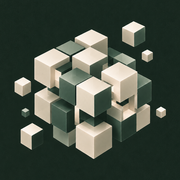
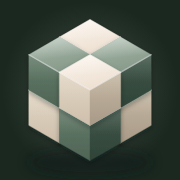
Brand mark: 2x2x2 cube that assembles on hover, with gloss and shadows
The mark is now a cream and sage 2x2x2 cube drawn from geometry. At rest
its blocks sit slightly apart; hovering the mark or its link brings them
together into one neat cube. Faces carry gloss, a light rim, soft block
shadows, a ground shadow and, on dark backgrounds, a faint glow.

The favicon is the assembled cube as an SVG (with a PNG fallback); the
Apple icon puts it on the original artwork's forest green.

diff --git a/frontend/public/home.html b/frontend/public/home.html
@@ -697,6 +697,42 @@ p{ margin:0; text-wrap:pretty; }
 .why-close{ margin-top:40px; font-weight:600; font-size:clamp(1.05rem, 1rem + 0.35vw, 1.25rem); color:var(--vv-ink); }
 
 
+/* ============================ BRAND MARK ============================ */
+/* Copy of the .vv-mark block in app/globals.css; markup is generated from
+   lib/brand-mark.ts. Keep the two in step. */
+.brand-mark{ display:inline-block; width:34px; height:34px; align-self:center; flex-shrink:0; }
+.vv-mark { display: block; width: 100%; height: 100%; overflow: visible; }
+/* Faces are stroked in their own paint only to close anti-aliasing seams. */
+.vv-mark polygon { stroke-width: 0.5px; stroke-linejoin: round; vector-effect: non-scaling-stroke; }
+.vv-mark .vv-gloss { stroke: none; }
+.vv-mark .vv-rim { fill: none; stroke: #fff; stroke-opacity: 0.55; stroke-width: 0.035; stroke-linejoin: round; stroke-linecap: round; }
+.vv-mark .vv-hit { fill: transparent; }
+.vv-mark .vv-ground { opacity: 0.22; }
+.vv-mark .vv-glow { opacity: 0; transition: opacity 0.5s ease; }
+[data-theme="dark"] .vv-mark .vv-ground { opacity: 0.5; }
+[data-theme="dark"] .vv-mark .vv-glow { opacity: 0.3; }
+[data-theme="dark"] .vv-mark:hover .vv-glow,
+[data-theme="dark"] .vv-mark-host:hover .vv-glow { opacity: 0.55; }
+.vv-block {
+  transform: translate(var(--dx), var(--dy));
+  transition: transform 0.5s cubic-bezier(0.5, 0, 0.75, 0);
+  transition-delay: calc((6 - var(--i)) * 25ms);
+}
+/* Coming together: front blocks settle last, with a small overshoot, like a click. */
+.vv-mark:hover .vv-block,
+.vv-mark-host:hover .vv-block,
+.vv-mark-host:focus-visible .vv-block {
+  transform: translate(0, 0);
+  transition: transform 0.55s cubic-bezier(0.34, 1.4, 0.64, 1);
+  transition-delay: calc(var(--i) * 35ms);
+}
+@media (prefers-reduced-motion: reduce) {
+  .vv-block, .vv-mark:hover .vv-block, .vv-mark-host:hover .vv-block { transition: none; }
+}
+/* The footer is dark in both themes. */
+.foot .vv-mark .vv-ground{ opacity:.5; }
+.foot .vv-mark .vv-glow{ opacity:.3; }
+
 /* ============================ ETYMOLOGY CARD ============================ */
 .brand-wrap{ position:relative; }
 .brand-latin{ border-bottom:1px dotted transparent; transition:border-color .25s; }
@@ -966,7 +1002,8 @@ body::after{
 <nav class="nav" id="nav">
   <div class="wrap nav-in">
     <div class="brand-wrap">
-      <a class="brand" href="#top" aria-describedby="etym-card">
+      <a class="brand vv-mark-host" href="#top" aria-describedby="etym-card">
+        <span class="brand-mark"><svg class="vv-mark" viewBox="-2.6 -2.6 5.2 5.2" aria-hidden="true" focusable="false"><defs><linearGradient id="vvm-cream-top" x1="0" y1="0" x2="0.35" y2="1"><stop offset="0" stop-color="#FBF4EC"/><stop offset="1" stop-color="#EEE1D3"/></linearGradient><linearGradient id="vvm-cream-left" x1="0" y1="0" x2="0" y2="1"><stop offset="0" stop-color="#E3D7C6"/><stop offset="1" stop-color="#CDBFAB"/></linearGradient><linearGradient id="vvm-cream-right" x1="0" y1="0" x2="0" y2="1"><stop offset="0" stop-color="#C4B7A3"/><stop offset="1" stop-color="#A89A86"/></linearGradient><linearGradient id="vvm-sage-top" x1="0" y1="0" x2="0.35" y2="1"><stop offset="0" stop-color="#A6B8A9"/><stop offset="1" stop-color="#899C8C"/></linearGradient><linearGradient id="vvm-sage-left" x1="0" y1="0" x2="0" y2="1"><stop offset="0" stop-color="#647B69"/><stop offset="1" stop-color="#4F6555"/></linearGradient><linearGradient id="vvm-sage-right" x1="0" y1="0" x2="0" y2="1"><stop offset="0" stop-color="#41574A"/><stop offset="1" stop-color="#2F4337"/></linearGradient><linearGradient id="vvm-shine" x1="0" y1="0" x2="0.2" y2="1"><stop offset="0" stop-color="#fff" stop-opacity="0.45"/><stop offset="0.65" stop-color="#fff" stop-opacity="0"/></linearGradient><linearGradient id="vvm-sheen" x1="0" y1="0" x2="0" y2="1"><stop offset="0" stop-color="#fff" stop-opacity="0.14"/><stop offset="0.5" stop-color="#fff" stop-opacity="0"/></linearGradient><radialGradient id="vvm-glow"><stop offset="0" stop-color="#F2E6DA" stop-opacity="0.55"/><stop offset="1" stop-color="#F2E6DA" stop-opacity="0"/></radialGradient><filter id="vvm-lift" x="-30%" y="-30%" width="160%" height="160%"><feDropShadow dx="0" dy="0.07" stdDeviation="0.07" flood-color="#0E1812" flood-opacity="0.35"/></filter><filter id="vvm-blur" x="-50%" y="-50%" width="200%" height="200%"><feGaussianBlur stdDeviation="0.16"/></filter></defs><rect class="vv-hit" x="-2.6" y="-2.6" width="5.2" height="5.2"/><circle class="vv-glow" cx="0" cy="0" r="2.5" fill="url(#vvm-glow)"/><ellipse class="vv-ground" cx="0" cy="2.05" rx="1.75" ry="0.38" fill="#0E1812" filter="url(#vvm-blur)"/><g class="vv-block" style="--i:0;--dx:0px;--dy:-0.25px"><g filter="url(#vvm-lift)"><polygon fill="url(#vvm-cream-top)" stroke="url(#vvm-cream-top)" points="0,-2 0.866,-1.5 0,-1 -0.866,-1.5"/><polygon fill="url(#vvm-cream-left)" stroke="url(#vvm-cream-left)" points="-0.866,-0.5 0,0 0,-1 -0.866,-1.5"/><polygon fill="url(#vvm-cream-right)" stroke="url(#vvm-cream-right)" points="0.866,-0.5 0,0 0,-1 0.866,-1.5"/><polygon class="vv-gloss" fill="url(#vvm-shine)" points="0,-2 0.866,-1.5 0,-1 -0.866,-1.5"/><polygon class="vv-gloss" fill="url(#vvm-sheen)" points="-0.866,-0.5 0,0 0,-1 -0.866,-1.5"/><polygon class="vv-gloss" fill="url(#vvm-sheen)" points="0.866,-0.5 0,0 0,-1 0.866,-1.5"/><polyline class="vv-rim" points="-0.866,-1.5 0,-1 0.866,-1.5"/></g></g><g class="vv-block" style="--i:1;--dx:0.13px;--dy:0.125px"><g filter="url(#vvm-lift)"><polygon fill="url(#vvm-cream-top)" stroke="url(#vvm-cream-top)" points="0.866,-0.5 1.732,0 0.866,0.5 0,0"/><polygon fill="url(#vvm-cream-left)" stroke="url(#vvm-cream-left)" points="0,1 0.866,1.5 0.866,0.5 0,0"/><polygon fill="url(#vvm-cream-right)" stroke="url(#vvm-cream-right)" points="1.732,1 0.866,1.5 0.866,0.5 1.732,0"/><polygon class="vv-gloss" fill="url(#vvm-shine)" points="0.866,-0.5 1.732,0 0.866,0.5 0,0"/><polygon class="vv-gloss" fill="url(#vvm-sheen)" points="0,1 0.866,1.5 0.866,0.5 0,0"/><polygon class="vv-gloss" fill="url(#vvm-sheen)" points="1.732,1 0.866,1.5 0.866,0.5 1.732,0"/><polyline class="vv-rim" points="0,0 0.866,0.5 1.732,0"/></g></g><g class="vv-block" style="--i:2;--dx:-0.52px;--dy:0.45px"><g filter="url(#vvm-lift)"><polygon fill="url(#vvm-cream-top)" stroke="url(#vvm-cream-top)" points="-0.866,-0.5 0,0 -0.866,0.5 -1.732,0"/><polygon fill="url(#vvm-cream-left)" stroke="url(#vvm-cream-left)" points="-1.732,1 -0.866,1.5 -0.866,0.5 -1.732,0"/><polygon fill="url(#vvm-cream-right)" stroke="url(#vvm-cream-right)" points="0,1 -0.866,1.5 -0.866,0.5 0,0"/><polygon class="vv-gloss" fill="url(#vvm-shine)" points="-0.866,-0.5 0,0 -0.866,0.5 -1.732,0"/><polygon class="vv-gloss" fill="url(#vvm-sheen)" points="-1.732,1 -0.866,1.5 -0.866,0.5 -1.732,0"/><polygon class="vv-gloss" fill="url(#vvm-sheen)" points="0,1 -0.866,1.5 -0.866,0.5 0,0"/><polyline class="vv-rim" points="-1.732,0 -0.866,0.5 0,0"/></g></g><g class="vv-block" style="--i:3;--dx:0.563px;--dy:-0.125px"><g filter="url(#vvm-lift)"><polygon fill="url(#vvm-sage-top)" stroke="url(#vvm-sage-top)" points="0.866,-1.5 1.732,-1 0.866,-0.5 0,-1"/><polygon fill="url(#vvm-sage-left)" stroke="url(#vvm-sage-left)" points="0,0 0.866,0.5 0.866,-0.5 0,-1"/><polygon fill="url(#vvm-sage-right)" stroke="url(#vvm-sage-right)" points="1.732,0 0.866,0.5 0.866,-0.5 1.732,-1"/><polygon class="vv-gloss" fill="url(#vvm-shine)" points="0.866,-1.5 1.732,-1 0.866,-0.5 0,-1"/><polygon class="vv-gloss" fill="url(#vvm-sheen)" points="0,0 0.866,0.5 0.866,-0.5 0,-1"/><polygon class="vv-gloss" fill="url(#vvm-sheen)" points="1.732,0 0.866,0.5 0.866,-0.5 1.732,-1"/><polyline class="vv-rim" points="0,-1 0.866,-0.5 1.732,-1"/></g></g><g class="vv-block" style="--i:4;--dx:-0.104px;--dy:0.01px"><g filter="url(#vvm-lift)"><polygon fill="url(#vvm-sage-top)" stroke="url(#vvm-sage-top)" points="-0.866,-1.5 0,-1 -0.866,-0.5 -1.732,-1"/><polygon fill="url(#vvm-sage-left)" stroke="url(#vvm-sage-left)" points="-1.732,0 -0.866,0.5 -0.866,-0.5 -1.732,-1"/><polygon fill="url(#vvm-sage-right)" stroke="url(#vvm-sage-right)" points="0,0 -0.866,0.5 -0.866,-0.5 0,-1"/><polygon class="vv-gloss" fill="url(#vvm-shine)" points="-0.866,-1.5 0,-1 -0.866,-0.5 -1.732,-1"/><polygon class="vv-gloss" fill="url(#vvm-sheen)" points="-1.732,0 -0.866,0.5 -0.866,-0.5 -1.732,-1"/><polygon class="vv-gloss" fill="url(#vvm-sheen)" points="0,0 -0.866,0.5 -0.866,-0.5 0,-1"/><polyline class="vv-rim" points="-1.732,-1 -0.866,-0.5 0,-1"/></g></g><g class="vv-block" style="--i:5;--dx:0px;--dy:0.2px"><g filter="url(#vvm-lift)"><polygon fill="url(#vvm-sage-top)" stroke="url(#vvm-sage-top)" points="0,0 0.866,0.5 0,1 -0.866,0.5"/><polygon fill="url(#vvm-sage-left)" stroke="url(#vvm-sage-left)" points="-0.866,1.5 0,2 0,1 -0.866,0.5"/><polygon fill="url(#vvm-sage-right)" stroke="url(#vvm-sage-right)" points="0.866,1.5 0,2 0,1 0.866,0.5"/><polygon class="vv-gloss" fill="url(#vvm-shine)" points="0,0 0.866,0.5 0,1 -0.866,0.5"/><polygon class="vv-gloss" fill="url(#vvm-sheen)" points="-0.866,1.5 0,2 0,1 -0.866,0.5"/><polygon class="vv-gloss" fill="url(#vvm-sheen)" points="0.866,1.5 0,2 0,1 0.866,0.5"/><polyline class="vv-rim" points="-0.866,0.5 0,1 0.866,0.5"/></g></g><g class="vv-block" style="--i:6;--dx:0px;--dy:-0.1px"><g filter="url(#vvm-lift)"><polygon fill="url(#vvm-cream-top)" stroke="url(#vvm-cream-top)" points="0,-1 0.866,-0.5 0,0 -0.866,-0.5"/><polygon fill="url(#vvm-cream-left)" stroke="url(#vvm-cream-left)" points="-0.866,0.5 0,1 0,0 -0.866,-0.5"/><polygon fill="url(#vvm-cream-right)" stroke="url(#vvm-cream-right)" points="0.866,0.5 0,1 0,0 0.866,-0.5"/><polygon class="vv-gloss" fill="url(#vvm-shine)" points="0,-1 0.866,-0.5 0,0 -0.866,-0.5"/><polygon class="vv-gloss" fill="url(#vvm-sheen)" points="-0.866,0.5 0,1 0,0 -0.866,-0.5"/><polygon class="vv-gloss" fill="url(#vvm-sheen)" points="0.866,0.5 0,1 0,0 0.866,-0.5"/><polyline class="vv-rim" points="-0.866,-0.5 0,0 0.866,-0.5"/></g></g></svg></span>
         <span class="brand-latin">Vivran</span>
       </a>
       <div class="etym" id="etym-card" role="tooltip">
@@ -1561,7 +1598,8 @@ body::after{
   <div class="wrap">
     <div class="foot-in">
       <div>
-        <a class="brand" href="#top">
+        <a class="brand vv-mark-host" href="#top">
+          <span class="brand-mark"><svg class="vv-mark" viewBox="-2.6 -2.6 5.2 5.2" aria-hidden="true" focusable="false"><defs><linearGradient id="vvm-cream-top" x1="0" y1="0" x2="0.35" y2="1"><stop offset="0" stop-color="#FBF4EC"/><stop offset="1" stop-color="#EEE1D3"/></linearGradient><linearGradient id="vvm-cream-left" x1="0" y1="0" x2="0" y2="1"><stop offset="0" stop-color="#E3D7C6"/><stop offset="1" stop-color="#CDBFAB"/></linearGradient><linearGradient id="vvm-cream-right" x1="0" y1="0" x2="0" y2="1"><stop offset="0" stop-color="#C4B7A3"/><stop offset="1" stop-color="#A89A86"/></linearGradient><linearGradient id="vvm-sage-top" x1="0" y1="0" x2="0.35" y2="1"><stop offset="0" stop-color="#A6B8A9"/><stop offset="1" stop-color="#899C8C"/></linearGradient><linearGradient id="vvm-sage-left" x1="0" y1="0" x2="0" y2="1"><stop offset="0" stop-color="#647B69"/><stop offset="1" stop-color="#4F6555"/></linearGradient><linearGradient id="vvm-sage-right" x1="0" y1="0" x2="0" y2="1"><stop offset="0" stop-color="#41574A"/><stop offset="1" stop-color="#2F4337"/></linearGradient><linearGradient id="vvm-shine" x1="0" y1="0" x2="0.2" y2="1"><stop offset="0" stop-color="#fff" stop-opacity="0.45"/><stop offset="0.65" stop-color="#fff" stop-opacity="0"/></linearGradient><linearGradient id="vvm-sheen" x1="0" y1="0" x2="0" y2="1"><stop offset="0" stop-color="#fff" stop-opacity="0.14"/><stop offset="0.5" stop-color="#fff" stop-opacity="0"/></linearGradient><radialGradient id="vvm-glow"><stop offset="0" stop-color="#F2E6DA" stop-opacity="0.55"/><stop offset="1" stop-color="#F2E6DA" stop-opacity="0"/></radialGradient><filter id="vvm-lift" x="-30%" y="-30%" width="160%" height="160%"><feDropShadow dx="0" dy="0.07" stdDeviation="0.07" flood-color="#0E1812" flood-opacity="0.35"/></filter><filter id="vvm-blur" x="-50%" y="-50%" width="200%" height="200%"><feGaussianBlur stdDeviation="0.16"/></filter></defs><rect class="vv-hit" x="-2.6" y="-2.6" width="5.2" height="5.2"/><circle class="vv-glow" cx="0" cy="0" r="2.5" fill="url(#vvm-glow)"/><ellipse class="vv-ground" cx="0" cy="2.05" rx="1.75" ry="0.38" fill="#0E1812" filter="url(#vvm-blur)"/><g class="vv-block" style="--i:0;--dx:0px;--dy:-0.25px"><g filter="url(#vvm-lift)"><polygon fill="url(#vvm-cream-top)" stroke="url(#vvm-cream-top)" points="0,-2 0.866,-1.5 0,-1 -0.866,-1.5"/><polygon fill="url(#vvm-cream-left)" stroke="url(#vvm-cream-left)" points="-0.866,-0.5 0,0 0,-1 -0.866,-1.5"/><polygon fill="url(#vvm-cream-right)" stroke="url(#vvm-cream-right)" points="0.866,-0.5 0,0 0,-1 0.866,-1.5"/><polygon class="vv-gloss" fill="url(#vvm-shine)" points="0,-2 0.866,-1.5 0,-1 -0.866,-1.5"/><polygon class="vv-gloss" fill="url(#vvm-sheen)" points="-0.866,-0.5 0,0 0,-1 -0.866,-1.5"/><polygon class="vv-gloss" fill="url(#vvm-sheen)" points="0.866,-0.5 0,0 0,-1 0.866,-1.5"/><polyline class="vv-rim" points="-0.866,-1.5 0,-1 0.866,-1.5"/></g></g><g class="vv-block" style="--i:1;--dx:0.13px;--dy:0.125px"><g filter="url(#vvm-lift)"><polygon fill="url(#vvm-cream-top)" stroke="url(#vvm-cream-top)" points="0.866,-0.5 1.732,0 0.866,0.5 0,0"/><polygon fill="url(#vvm-cream-left)" stroke="url(#vvm-cream-left)" points="0,1 0.866,1.5 0.866,0.5 0,0"/><polygon fill="url(#vvm-cream-right)" stroke="url(#vvm-cream-right)" points="1.732,1 0.866,1.5 0.866,0.5 1.732,0"/><polygon class="vv-gloss" fill="url(#vvm-shine)" points="0.866,-0.5 1.732,0 0.866,0.5 0,0"/><polygon class="vv-gloss" fill="url(#vvm-sheen)" points="0,1 0.866,1.5 0.866,0.5 0,0"/><polygon class="vv-gloss" fill="url(#vvm-sheen)" points="1.732,1 0.866,1.5 0.866,0.5 1.732,0"/><polyline class="vv-rim" points="0,0 0.866,0.5 1.732,0"/></g></g><g class="vv-block" style="--i:2;--dx:-0.52px;--dy:0.45px"><g filter="url(#vvm-lift)"><polygon fill="url(#vvm-cream-top)" stroke="url(#vvm-cream-top)" points="-0.866,-0.5 0,0 -0.866,0.5 -1.732,0"/><polygon fill="url(#vvm-cream-left)" stroke="url(#vvm-cream-left)" points="-1.732,1 -0.866,1.5 -0.866,0.5 -1.732,0"/><polygon fill="url(#vvm-cream-right)" stroke="url(#vvm-cream-right)" points="0,1 -0.866,1.5 -0.866,0.5 0,0"/><polygon class="vv-gloss" fill="url(#vvm-shine)" points="-0.866,-0.5 0,0 -0.866,0.5 -1.732,0"/><polygon class="vv-gloss" fill="url(#vvm-sheen)" points="-1.732,1 -0.866,1.5 -0.866,0.5 -1.732,0"/><polygon class="vv-gloss" fill="url(#vvm-sheen)" points="0,1 -0.866,1.5 -0.866,0.5 0,0"/><polyline class="vv-rim" points="-1.732,0 -0.866,0.5 0,0"/></g></g><g class="vv-block" style="--i:3;--dx:0.563px;--dy:-0.125px"><g filter="url(#vvm-lift)"><polygon fill="url(#vvm-sage-top)" stroke="url(#vvm-sage-top)" points="0.866,-1.5 1.732,-1 0.866,-0.5 0,-1"/><polygon fill="url(#vvm-sage-left)" stroke="url(#vvm-sage-left)" points="0,0 0.866,0.5 0.866,-0.5 0,-1"/><polygon fill="url(#vvm-sage-right)" stroke="url(#vvm-sage-right)" points="1.732,0 0.866,0.5 0.866,-0.5 1.732,-1"/><polygon class="vv-gloss" fill="url(#vvm-shine)" points="0.866,-1.5 1.732,-1 0.866,-0.5 0,-1"/><polygon class="vv-gloss" fill="url(#vvm-sheen)" points="0,0 0.866,0.5 0.866,-0.5 0,-1"/><polygon class="vv-gloss" fill="url(#vvm-sheen)" points="1.732,0 0.866,0.5 0.866,-0.5 1.732,-1"/><polyline class="vv-rim" points="0,-1 0.866,-0.5 1.732,-1"/></g></g><g class="vv-block" style="--i:4;--dx:-0.104px;--dy:0.01px"><g filter="url(#vvm-lift)"><polygon fill="url(#vvm-sage-top)" stroke="url(#vvm-sage-top)" points="-0.866,-1.5 0,-1 -0.866,-0.5 -1.732,-1"/><polygon fill="url(#vvm-sage-left)" stroke="url(#vvm-sage-left)" points="-1.732,0 -0.866,0.5 -0.866,-0.5 -1.732,-1"/><polygon fill="url(#vvm-sage-right)" stroke="url(#vvm-sage-right)" points="0,0 -0.866,0.5 -0.866,-0.5 0,-1"/><polygon class="vv-gloss" fill="url(#vvm-shine)" points="-0.866,-1.5 0,-1 -0.866,-0.5 -1.732,-1"/><polygon class="vv-gloss" fill="url(#vvm-sheen)" points="-1.732,0 -0.866,0.5 -0.866,-0.5 -1.732,-1"/><polygon class="vv-gloss" fill="url(#vvm-sheen)" points="0,0 -0.866,0.5 -0.866,-0.5 0,-1"/><polyline class="vv-rim" points="-1.732,-1 -0.866,-0.5 0,-1"/></g></g><g class="vv-block" style="--i:5;--dx:0px;--dy:0.2px"><g filter="url(#vvm-lift)"><polygon fill="url(#vvm-sage-top)" stroke="url(#vvm-sage-top)" points="0,0 0.866,0.5 0,1 -0.866,0.5"/><polygon fill="url(#vvm-sage-left)" stroke="url(#vvm-sage-left)" points="-0.866,1.5 0,2 0,1 -0.866,0.5"/><polygon fill="url(#vvm-sage-right)" stroke="url(#vvm-sage-right)" points="0.866,1.5 0,2 0,1 0.866,0.5"/><polygon class="vv-gloss" fill="url(#vvm-shine)" points="0,0 0.866,0.5 0,1 -0.866,0.5"/><polygon class="vv-gloss" fill="url(#vvm-sheen)" points="-0.866,1.5 0,2 0,1 -0.866,0.5"/><polygon class="vv-gloss" fill="url(#vvm-sheen)" points="0.866,1.5 0,2 0,1 0.866,0.5"/><polyline class="vv-rim" points="-0.866,0.5 0,1 0.866,0.5"/></g></g><g class="vv-block" style="--i:6;--dx:0px;--dy:-0.1px"><g filter="url(#vvm-lift)"><polygon fill="url(#vvm-cream-top)" stroke="url(#vvm-cream-top)" points="0,-1 0.866,-0.5 0,0 -0.866,-0.5"/><polygon fill="url(#vvm-cream-left)" stroke="url(#vvm-cream-left)" points="-0.866,0.5 0,1 0,0 -0.866,-0.5"/><polygon fill="url(#vvm-cream-right)" stroke="url(#vvm-cream-right)" points="0.866,0.5 0,1 0,0 0.866,-0.5"/><polygon class="vv-gloss" fill="url(#vvm-shine)" points="0,-1 0.866,-0.5 0,0 -0.866,-0.5"/><polygon class="vv-gloss" fill="url(#vvm-sheen)" points="-0.866,0.5 0,1 0,0 -0.866,-0.5"/><polygon class="vv-gloss" fill="url(#vvm-sheen)" points="0.866,0.5 0,1 0,0 0.866,-0.5"/><polyline class="vv-rim" points="-0.866,-0.5 0,0 0.866,-0.5"/></g></g></svg></span>
           <span class="brand-latin">Vivran</span>
         </a>
         <p class="foot-tag">From a teacher&rsquo;s own material to an education that understands itself.</p>

diff --git a/frontend/lib/brand-mark.ts b/frontend/lib/brand-mark.ts
@@ -1,115 +1,109 @@
 /**
- * The Vivran mark: a 3×3×3 stack of isometric blocks, some missing, with a
- * few loose ones drifting off it. It is built from geometry (not an image)
- * so every block is its own SVG group and can move on hover.
+ * The Vivran mark: a 2×2×2 cube of cream and sage blocks. At rest the blocks
+ * have drifted apart; on hover they slide back together into one neat cube.
+ * It is built from geometry (not an image) so every block can move on its own.
+ *
+ * Its look follows the original artwork: glossy, softly lit faces, a light
+ * catch along each block's top edges, a small shadow under each block, a soft
+ * shadow on the ground and a faint glow behind. This is artwork, so its
+ * colours live here rather than in the theme tokens.
  *
  * `brandMarkSvg()` returns plain markup so the same mark is used by the React
  * component (app/components/brand-mark.tsx) and pasted into the static landing
  * page (public/home.html). If you change the blocks here, regenerate that copy:
  *   npx tsc lib/brand-mark.ts --outDir /tmp/bm && node -e "console.log(require('/tmp/bm/brand-mark.js').brandMarkSvg())"
- * Styling and motion live in globals.css (and its copy in home.html) under `.vv-mark`.
+ * Motion lives in globals.css (and its copy in home.html) under `.vv-mark`.
+ * The favicon (app/icon.svg) is this cube assembled.
  */
 
 type Tone = "cream" | "sage";
-type Pt = [number, number];
-
-interface Block {
-  /** screen-space centre, in block units (cluster centre is 0,0) */
-  cx: number;
-  cy: number;
-  size: number;
-  tone: Tone;
-  loose: boolean;
-}
+type Face = "top" | "left" | "right";
 
 const COS30 = Math.sqrt(3) / 2;
-const project = (x: number, y: number, z: number): Pt => [(x - y) * COS30, (x + y) / 2 - z];
+const project = (x: number, y: number, z: number): [number, number] => [(x - y) * COS30, (x + y) / 2 - z];
 
-const c: Tone = "cream";
-const s: Tone = "sage";
-
-/** [x, y, z, tone] on the 3×3×3 grid; z is up, x runs to the lower right, y to the lower left. */
-const GRID: [number, number, number, Tone][] = [
-  // bottom layer
-  [1, 0, 0, s], [2, 0, 0, c], [0, 1, 0, c], [2, 1, 0, s],
-  [0, 2, 0, c], [1, 2, 0, s], [2, 2, 0, c],
-  // middle layer: the centre and one front block are missing, so you can see in
-  [0, 0, 1, c], [1, 0, 1, c], [2, 0, 1, s], [0, 1, 1, s],
-  [2, 1, 1, s], [0, 2, 1, c], [1, 2, 1, s],
-  // top layer: the right-hand corner is missing
-  [0, 0, 2, c], [1, 0, 2, s], [0, 1, 2, s], [1, 1, 2, c],
-  [2, 1, 2, c], [0, 2, 2, c], [1, 2, 2, s], [2, 2, 2, c],
+/**
+ * [x, y, z, tone, drift] — x runs to the lower right, y to the lower left, z up;
+ * ±1 picks the octant. `drift` is how far (in block units) the block has come
+ * loose at rest: most sit close, two have clearly come away, as in the
+ * original artwork. The back-bottom block is never seen.
+ */
+const BLOCKS: [number, number, number, Tone, [number, number, number]][] = [
+  [-1, -1, 1, "cream", [0, 0, 0.25]],
+  [1, -1, 1, "sage", [0.55, -0.1, 0.35]],
+  [-1, 1, 1, "sage", [0, 0.12, 0.05]],
+  [1, -1, -1, "cream", [0.15, 0, -0.05]],
+  [-1, 1, -1, "cream", [-0.1, 0.5, -0.25]],
+  [1, 1, 1, "cream", [0.2, 0.2, 0.3]],
+  [1, 1, -1, "sage", [0.1, 0.1, -0.1]],
 ];
 
-/** A few blocks sit slightly out of the stack, as in the artwork: "x,y,z" → offset in block units. */
-const NUDGE: Record<string, [number, number, number]> = {
-  "2,2,2": [0, 0, 0.14],
-  "2,0,0": [0.16, 0, 0],
-  "0,2,0": [0, 0.16, 0],
-  "1,0,2": [0, 0, 0.1],
-  "2,1,1": [0.12, 0, 0],
+/** Each face runs from a lit colour to a shaded one: [from, to]. */
+const PAINT: Record<Tone, Record<Face, [string, string]>> = {
+  cream: { top: ["#FBF4EC", "#EEE1D3"], left: ["#E3D7C6", "#CDBFAB"], right: ["#C4B7A3", "#A89A86"] },
+  sage: { top: ["#A6B8A9", "#899C8C"], left: ["#647B69", "#4F6555"], right: ["#41574A", "#2F4337"] },
 };
 
-/** Blocks that have come loose, placed by screen position like the artwork. */
-const LOOSE: [number, number, number, Tone][] = [
-  [1.95, -2.5, 0.55, c],
-  [2.55, -1.45, 0.3, c],
-  [-3.0, 0.05, 0.45, c],
-  [-2.9, 1.1, 0.22, s],
-  [-2.6, 2.05, 0.5, c],
-  [3.15, 1.1, 0.28, c],
-];
-
-const BLOCKS: Block[] = [
-  ...GRID
-    // Painter's order: blocks further from the viewer are drawn first.
-    .slice()
-    .sort((a, b) => a[0] + a[1] + a[2] - (b[0] + b[1] + b[2]))
-    .map(([x, y, z, tone]) => {
-      const [nx, ny, nz] = NUDGE[`${x},${y},${z}`] ?? [0, 0, 0];
-      const [cx, cy] = project(x - 1 + nx, y - 1 + ny, z - 1 + nz);
-      return { cx, cy, size: 0.92, tone, loose: false };
-    }),
-  ...LOOSE.map(([cx, cy, size, tone]) => ({ cx, cy, size, tone, loose: true })),
-];
-
 const r = (n: number) => Math.round(n * 1000) / 1000;
-const pts = (corners: [number, number, number][], b: Block) =>
-  corners
-    .map(([x, y, z]) => {
-      const [px, py] = project(x * b.size, y * b.size, z * b.size);
-      return `${r(b.cx + px)},${r(b.cy + py)}`;
-    })
-    .join(" ");
-
 const h = 0.5;
-const TOP: [number, number, number][] = [[-h, -h, h], [h, -h, h], [h, h, h], [-h, h, h]];
-const RIGHT: [number, number, number][] = [[h, -h, -h], [h, h, -h], [h, h, h], [h, -h, h]];
-const LEFT: [number, number, number][] = [[-h, h, -h], [h, h, -h], [h, h, h], [-h, h, h]];
-const OUTLINE: [number, number, number][] = [[-h, -h, h], [h, -h, h], [h, -h, -h], [h, h, -h], [-h, h, -h], [-h, h, h]];
+type Corner = [number, number, number];
+const FACES: Record<Face, Corner[]> = {
+  top: [[-h, -h, h], [h, -h, h], [h, h, h], [-h, h, h]],
+  left: [[-h, h, -h], [h, h, -h], [h, h, h], [-h, h, h]],
+  right: [[h, -h, -h], [h, h, -h], [h, h, h], [h, -h, h]],
+};
+/** The top face's two front edges, where light catches. */
+const RIM: Corner[] = [[-h, h, h], [h, h, h], [h, -h, h]];
 
-function blockSvg(b: Block, i: number) {
-  // Each block drifts away from the centre when the mark is hovered.
-  const len = Math.hypot(b.cx, b.cy) || 1;
-  const push = b.loose ? 0.45 : 0.22;
-  const style = `--i:${i};--dx:${r((b.cx / len) * push)}px;--dy:${r((b.cy / len) * push)}px`;
+const points = (corners: Corner[], x: number, y: number, z: number) =>
+  corners.map(([a, b, c]) => project(x * h + a, y * h + b, z * h + c).map(r).join(",")).join(" ");
+
+function defs() {
+  const grad = (id: string, [from, to]: [string, string], vertical: boolean) =>
+    `<linearGradient id="${id}" x1="0" y1="0" x2="${vertical ? 0 : 0.35}" y2="1">` +
+    `<stop offset="0" stop-color="${from}"/><stop offset="1" stop-color="${to}"/></linearGradient>`;
+  const faces = (Object.keys(PAINT) as Tone[]).flatMap((tone) =>
+    (["top", "left", "right"] as Face[]).map((face) => grad(`vvm-${tone}-${face}`, PAINT[tone][face], face !== "top")),
+  );
   return (
-    `<g class="vv-block vv-${b.tone}${b.loose ? " vv-loose" : ""}" style="${style}">` +
-    `<g class="vv-body">` +
-    `<polygon class="vv-top" points="${pts(TOP, b)}"/>` +
-    `<polygon class="vv-left" points="${pts(LEFT, b)}"/>` +
-    `<polygon class="vv-right" points="${pts(RIGHT, b)}"/>` +
-    `</g>` +
-    // Fixed hit area, so a block lifting out from under the pointer doesn't flicker.
-    `<polygon class="vv-hit" points="${pts(OUTLINE, b)}"/>` +
-    `</g>`
+    `<defs>` +
+    faces.join("") +
+    // Gloss: a soft white sheen from the back of each top face, and a fainter one down the sides.
+    `<linearGradient id="vvm-shine" x1="0" y1="0" x2="0.2" y2="1"><stop offset="0" stop-color="#fff" stop-opacity="0.45"/><stop offset="0.65" stop-color="#fff" stop-opacity="0"/></linearGradient>` +
+    `<linearGradient id="vvm-sheen" x1="0" y1="0" x2="0" y2="1"><stop offset="0" stop-color="#fff" stop-opacity="0.14"/><stop offset="0.5" stop-color="#fff" stop-opacity="0"/></linearGradient>` +
+    `<radialGradient id="vvm-glow"><stop offset="0" stop-color="#F2E6DA" stop-opacity="0.55"/><stop offset="1" stop-color="#F2E6DA" stop-opacity="0"/></radialGradient>` +
+    `<filter id="vvm-lift" x="-30%" y="-30%" width="160%" height="160%"><feDropShadow dx="0" dy="0.07" stdDeviation="0.07" flood-color="#0E1812" flood-opacity="0.35"/></filter>` +
+    `<filter id="vvm-blur" x="-50%" y="-50%" width="200%" height="200%"><feGaussianBlur stdDeviation="0.16"/></filter>` +
+    `</defs>`
+  );
+}
+
+function blockSvg([x, y, z, tone, drift]: (typeof BLOCKS)[number], i: number) {
+  const [dx, dy] = project(...drift);
+  const style = `--i:${i};--dx:${r(dx)}px;--dy:${r(dy)}px`;
+  const face = (f: Face) => `<polygon fill="url(#vvm-${tone}-${f})" stroke="url(#vvm-${tone}-${f})" points="${points(FACES[f], x, y, z)}"/>`;
+  return (
+    `<g class="vv-block" style="${style}"><g filter="url(#vvm-lift)">` +
+    face("top") + face("left") + face("right") +
+    `<polygon class="vv-gloss" fill="url(#vvm-shine)" points="${points(FACES.top, x, y, z)}"/>` +
+    `<polygon class="vv-gloss" fill="url(#vvm-sheen)" points="${points(FACES.left, x, y, z)}"/>` +
+    `<polygon class="vv-gloss" fill="url(#vvm-sheen)" points="${points(FACES.right, x, y, z)}"/>` +
+    `<polyline class="vv-rim" points="${points(RIM, x, y, z)}"/>` +
+    `</g></g>`
   );
 }
 
 export function brandMarkSvg(): string {
+  // Painter's order: blocks further from the viewer are drawn first.
+  const ordered = BLOCKS.slice().sort((a, b) => a[0] + a[1] + a[2] - (b[0] + b[1] + b[2]));
   return (
-    `<svg class="vv-mark" viewBox="-3.9 -3.9 7.8 7.8" aria-hidden="true" focusable="false">` +
-    BLOCKS.map(blockSvg).join("") +
+    `<svg class="vv-mark" viewBox="-2.6 -2.6 5.2 5.2" aria-hidden="true" focusable="false">` +
+    defs() +
+    // Transparent backing so the gaps between loose blocks still count as hovering the mark.
+    `<rect class="vv-hit" x="-2.6" y="-2.6" width="5.2" height="5.2"/>` +
+    `<circle class="vv-glow" cx="0" cy="0" r="2.5" fill="url(#vvm-glow)"/>` +
+    `<ellipse class="vv-ground" cx="0" cy="2.05" rx="1.75" ry="0.38" fill="#0E1812" filter="url(#vvm-blur)"/>` +
+    ordered.map(blockSvg).join("") +
     `</svg>`
   );
 }

diff --git a/frontend/app/globals.css b/frontend/app/globals.css
@@ -260,46 +260,37 @@ html :is(a, button, input, select, textarea, summary, [tabindex]):focus-visible 
 }
 
 /* ------------------------------------------------------------------
-   Brand mark (lib/brand-mark.ts). Hovering the mark, or anything marked
-   .vv-mark-host around it, lets the blocks drift apart; hovering a single
-   block lifts it out of the stack. A copy of this block lives in
-   public/home.html — keep the two in step.
+   Brand mark (lib/brand-mark.ts). At rest the blocks sit a little apart;
+   hovering the mark, or anything marked .vv-mark-host around it, brings
+   them together into one neat cube. Colours, gloss and shadows are part of
+   the artwork in lib/brand-mark.ts; this block only sets theme and motion.
+   A copy of this block lives in public/home.html — keep the two in step.
    ------------------------------------------------------------------ */
-.vv-mark {
-  display: block; width: 100%; height: 100%; overflow: visible;
-  /* On paper the cream blocks need more body and a firmer edge to read. */
-  --vv-edge-c: rgba(20, 16, 12, 0.42);
-  --vv-cream-1: #EEE4D2; --vv-cream-2: #DBCDB4; --vv-cream-3: #BFB197;
-  --vv-sage-1: #93A797; --vv-sage-2: #6F8676; --vv-sage-3: #4E6456;
-}
-[data-theme="dark"] .vv-mark {
-  --vv-edge-c: rgba(0, 0, 0, 0.45);
-  --vv-cream-1: #F3EBDD; --vv-cream-2: #E2D7C3; --vv-cream-3: #C7BCA6;
-}
-.vv-mark polygon { stroke: var(--vv-edge-c); stroke-width: 0.8px; stroke-linejoin: round; vector-effect: non-scaling-stroke; }
-.vv-mark .vv-hit { fill: transparent; stroke: none; }
-.vv-cream .vv-top { fill: var(--vv-cream-1); }
-.vv-cream .vv-left { fill: var(--vv-cream-2); }
-.vv-cream .vv-right { fill: var(--vv-cream-3); }
-.vv-sage .vv-top { fill: var(--vv-sage-1); }
-.vv-sage .vv-left { fill: var(--vv-sage-2); }
-.vv-sage .vv-right { fill: var(--vv-sage-3); }
+.vv-mark { display: block; width: 100%; height: 100%; overflow: visible; }
+/* Faces are stroked in their own paint only to close anti-aliasing seams. */
+.vv-mark polygon { stroke-width: 0.5px; stroke-linejoin: round; vector-effect: non-scaling-stroke; }
+.vv-mark .vv-gloss { stroke: none; }
+.vv-mark .vv-rim { fill: none; stroke: #fff; stroke-opacity: 0.55; stroke-width: 0.035; stroke-linejoin: round; stroke-linecap: round; }
+.vv-mark .vv-hit { fill: transparent; }
+.vv-mark .vv-ground { opacity: 0.22; }
+.vv-mark .vv-glow { opacity: 0; transition: opacity 0.5s ease; }
+[data-theme="dark"] .vv-mark .vv-ground { opacity: 0.5; }
+[data-theme="dark"] .vv-mark .vv-glow { opacity: 0.3; }
+[data-theme="dark"] .vv-mark:hover .vv-glow,
+[data-theme="dark"] .vv-mark-host:hover .vv-glow { opacity: 0.55; }
 .vv-block {
-  transition: transform 0.55s cubic-bezier(0.34, 1.56, 0.64, 1);
-  transition-delay: calc(var(--i) * 14ms);
+  transform: translate(var(--dx), var(--dy));
+  transition: transform 0.5s cubic-bezier(0.5, 0, 0.75, 0);
+  transition-delay: calc((6 - var(--i)) * 25ms);
 }
+/* Coming together: front blocks settle last, with a small overshoot, like a click. */
 .vv-mark:hover .vv-block,
 .vv-mark-host:hover .vv-block,
-.vv-mark-host:focus-visible .vv-block { transform: translate(var(--dx), var(--dy)); }
-.vv-body { transition: transform 0.35s cubic-bezier(0.34, 1.56, 0.64, 1), filter 0.25s ease; }
-.vv-block:hover .vv-body { transform: translateY(-0.5px); filter: brightness(1.08); transition-delay: 0s; }
-.vv-loose .vv-body { animation: vv-float 3.2s ease-in-out infinite; animation-delay: calc(var(--i) * -0.45s); }
-.vv-loose:hover .vv-body { animation-play-state: paused; }
-@keyframes vv-float {
-  0%, 100% { translate: 0 0; }
-  50% { translate: 0 -0.12px; }
+.vv-mark-host:focus-visible .vv-block {
+  transform: translate(0, 0);
+  transition: transform 0.55s cubic-bezier(0.34, 1.4, 0.64, 1);
+  transition-delay: calc(var(--i) * 35ms);
 }
 @media (prefers-reduced-motion: reduce) {
-  .vv-block, .vv-body { transition: none; }
-  .vv-loose .vv-body { animation: none; }
+  .vv-block, .vv-mark:hover .vv-block, .vv-mark-host:hover .vv-block { transition: none; }
 }
